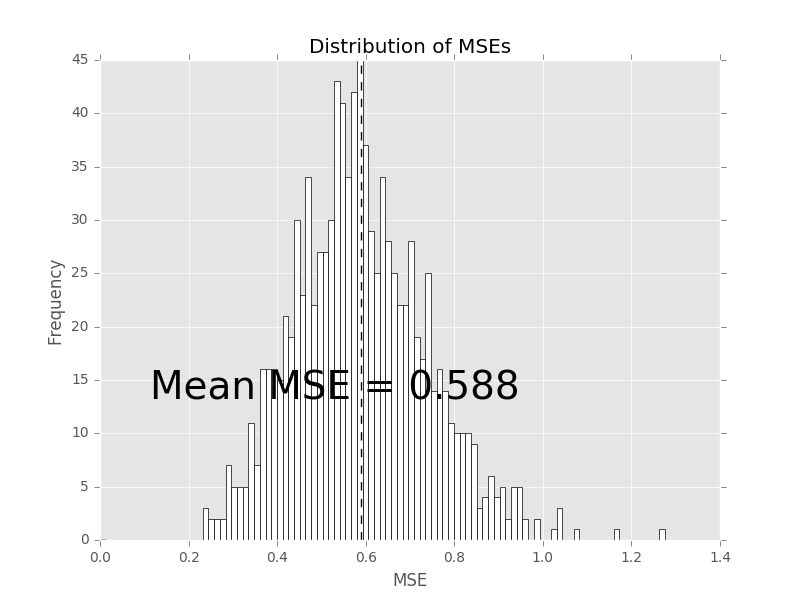
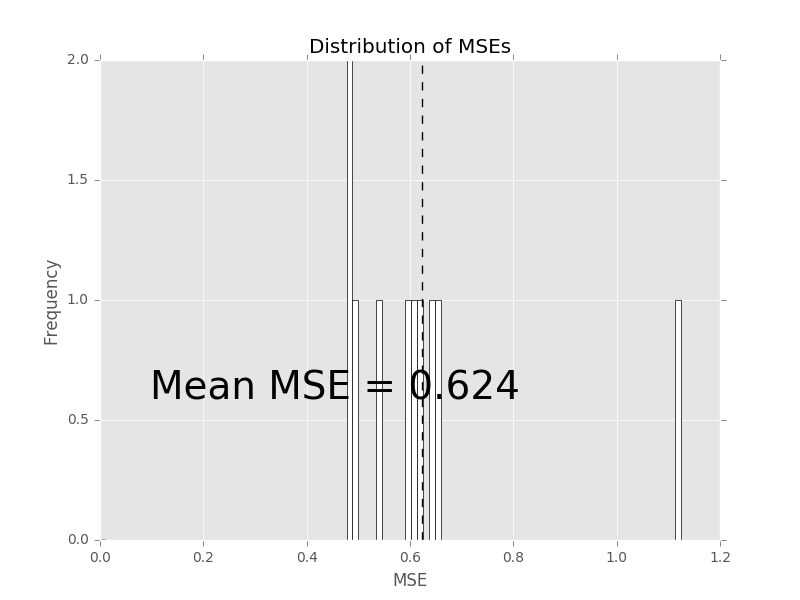
some early attempts at parallel in python

diff --git a/Python/easyml/factory.py b/Python/easyml/factory.py
@@ -20,7 +20,12 @@ def easy_glmnet(data, dependent_variable, family='gaussian', sample=None,
                 exclude_variables=None, categorical_variables=None,
                 standardize_data=True, train_size=0.667, survival_rate_cutoff=0.05,
                 n_samples=1000, n_divisions=1000, n_iterations=10,
-                out_directory='.', **kwargs):
+                out_directory='.', random_state=None, progress_bar=False,
+                parallel=False, **kwargs):
+    # Handle random state
+    if random_state is not None:
+        np.random.seed(random_state)
+
     # Handle columns
     column_names = data.columns
     column_names = [c for c in column_names if c != dependent_variable]
@@ -65,7 +70,8 @@ def easy_glmnet(data, dependent_variable, family='gaussian', sample=None,
             sample = train_test_split
 
         # Bootstrap coefficients
-        coefs = bootstrap_coefficients(model, fit, extract, X, y, n_samples=n_samples)
+        coefs = bootstrap_coefficients(model, fit, extract, X, y, n_samples=n_samples,
+                                       progress_bar=progress_bar, parallel=parallel)
 
         # Process coefficients
         betas = process_coefficients(coefs, column_names, survival_rate_cutoff=survival_rate_cutoff)
@@ -76,7 +82,8 @@ def easy_glmnet(data, dependent_variable, family='gaussian', sample=None,
 
         # Bootstrap predictions
         y_train_pred, y_test_pred = bootstrap_predictions(model, fit, predict, X_train, y_train, X_test,
-                                                          n_samples=n_samples)
+                                                          n_samples=n_samples, progress_bar=progress_bar,
+                                                          parallel=parallel)
 
         # Take average of predictions for training and test sets
         y_train_pred_mean = np.mean(y_train_pred, axis=0)
@@ -92,7 +99,8 @@ def easy_glmnet(data, dependent_variable, family='gaussian', sample=None,
 
         # Bootstrap training and test MSEs
         train_mses, test_mses = bootstrap_mses(model, sample, fit, predict, X, y,
-                                               n_divisions=n_divisions, n_iterations=n_iterations)
+                                               n_divisions=n_divisions, n_iterations=n_iterations,
+                                               progress_bar=progress_bar, parallel=parallel)
 
         # Plot histogram of training MSEs
         plot_mse_histogram(train_mses)
@@ -116,7 +124,8 @@ def easy_glmnet(data, dependent_variable, family='gaussian', sample=None,
             sample = sample_equal_proportion
 
         # Bootstrap coefficients
-        coefs = bootstrap_coefficients(model, fit, extract, X, y, n_samples=n_samples)
+        coefs = bootstrap_coefficients(model, fit, extract, X, y, n_samples=n_samples,
+                                       progress_bar=progress_bar, parallel=parallel)
 
         # Process coefficients
         betas = process_coefficients(coefs, column_names, survival_rate_cutoff=survival_rate_cutoff)
@@ -127,7 +136,8 @@ def easy_glmnet(data, dependent_variable, family='gaussian', sample=None,
 
         # Bootstrap predictions
         y_train_pred, y_test_pred = bootstrap_predictions(model, fit, predict, X_train, y_train, X_test,
-                                                          n_samples=n_samples)
+                                                          n_samples=n_samples, progress_bar=progress_bar,
+                                                          parallel=parallel)
 
         # Take average of predictions for training and test sets
         y_train_pred_mean = np.mean(y_train_pred, axis=0)
@@ -143,7 +153,8 @@ def easy_glmnet(data, dependent_variable, family='gaussian', sample=None,
 
         # Bootstrap training and test AUCSs
         train_aucs, test_aucs = bootstrap_aucs(model, sample, fit, predict, X, y,
-                                               n_divisions=n_divisions, n_iterations=n_iterations)
+                                               n_divisions=n_divisions, n_iterations=n_iterations,
+                                               progress_bar=progress_bar, parallel=parallel)
 
         # Plot histogram of training AUCs
         plot_auc_histogram(train_aucs)

diff --git a/Python/easyml/bootstrap.py b/Python/easyml/bootstrap.py
@@ -2,17 +2,30 @@
 """
 import numpy as np
 from sklearn import metrics
+from tqdm import trange
 
 
 __all__ = []
 
 
-def bootstrap_coefficients(estimator, fit, extract, X, y, n_samples=1000):
+def bootstrap_coefficients(estimator, fit, extract, X, y,
+                           n_samples=1000, progress_bar=False, parallel=False):
+    # Run in parallel (optional)
+    if parallel:
+        print("Running in parallel...")
+
+    # Initialize progress bar (optional)
+    if progress_bar:
+        print("Bootstrapping coefficients...")
+        loop = trange
+    else:
+        loop = range
+
     # Initialize containers
     coefs = []
 
     # Loop over number of iterations
-    for _ in range(n_samples):
+    for _ in loop(n_samples):
         # Fit estimator with the training set
         estimator = fit(estimator, X, y)
 
@@ -28,13 +41,25 @@ def bootstrap_coefficients(estimator, fit, extract, X, y, n_samples=1000):
     return coefs
 
 
-def bootstrap_predictions(estimator, fit, predict, X_train, y_train, X_test, n_samples=1000):
+def bootstrap_predictions(estimator, fit, predict, X_train, y_train, X_test,
+                          n_samples=1000, progress_bar=False, parallel=False):
+    # Run in parallel (optional)
+    if parallel:
+        print("Running in parallel...")
+
+    # Initialize progress bar (optional)
+    if progress_bar:
+        print("Bootstrapping predictions...")
+        loop = trange
+    else:
+        loop = range
+
     # Initialize containers
     y_train_preds = []
     y_test_preds = []
 
     # Loop over number of iterations
-    for _ in range(n_samples):
+    for _ in loop(n_samples):
         # Fit estimator with the training set
         estimator = fit(estimator, X_train, y_train)
 
@@ -54,13 +79,24 @@ def bootstrap_predictions(estimator, fit, predict, X_train, y_train, X_test, n_s
 
 
 def bootstrap_metrics(estimator, sample, fit, predict, measure, X, y,
-                      n_divisions=1000, n_iterations=100):
+                      n_divisions=1000, n_iterations=100, progress_bar=False, parallel=False):
+    # Run in parallel (optional)
+    if parallel:
+        print("Running in parallel...")
+
+    # Initialize progress bar (optional)
+    if progress_bar:
+        print("Bootstrapping metrics...")
+        loop = trange
+    else:
+        loop = range
+
     # Create temporary containers
     all_train_metrics = []
     all_test_metrics = []
 
     # Loop over number of divisions
-    for i in range(n_divisions):
+    for i in loop(n_divisions):
         # Split data
         X_train, X_test, y_train, y_test = sample(X, y)
 
@@ -97,14 +133,16 @@ def bootstrap_metrics(estimator, sample, fit, predict, measure, X, y,
 
 
 def bootstrap_aucs(estimator, sample, fit, predict, X, y,
-                   n_divisions=1000, n_iterations=100):
+                   n_divisions=1000, n_iterations=100, progress_bar=False, parallel=False):
     return bootstrap_metrics(estimator=estimator, sample=sample,
                              fit=fit, predict=predict, measure=metrics.roc_auc_score,
-                             X=X, y=y, n_divisions=n_divisions, n_iterations=n_iterations)
+                             X=X, y=y, n_divisions=n_divisions, n_iterations=n_iterations,
+                             progress_bar=progress_bar, parallel=parallel)
 
 
 def bootstrap_mses(estimator, sample, fit, predict, X, y,
-                    n_divisions=1000, n_iterations=100):
+                    n_divisions=1000, n_iterations=100, progress_bar=False, parallel=False):
     return bootstrap_metrics(estimator=estimator, sample=sample,
                              fit=fit, predict=predict, measure=metrics.mean_squared_error,
-                             X=X, y=y, n_divisions=n_divisions, n_iterations=n_iterations)
+                             X=X, y=y, n_divisions=n_divisions, n_iterations=n_iterations,
+                             progress_bar=progress_bar, parallel=parallel)

diff --git a/Python/examples/cocaine_dependence/analysis.py b/Python/examples/cocaine_dependence/analysis.py
@@ -9,15 +9,16 @@ from easyml.factory import easy_glmnet
 plt.style.use('ggplot')
 
 import os
-os.chdir('./Python/examples/prostate')
+os.chdir('./Python/examples/cocaine_dependence')
 
 
 if __name__ == "__main__":
     # Load data
-    prostate = pd.read_table('./prostate.txt')
+    cocaine_depedence = pd.read_table('./cocaine_depedence.txt')
 
     # Analyze data
-    easy_glmnet(prostate, 'lpsa',
+    easy_glmnet(cocaine_depedence, 'DIAGNOSIS',
+                family='binomial', exclude_variables=['subject'], categorical_variables=['Male'],
                 random_state=1, progress_bar=True, parallel=True,
-                n_samples=10, n_divisions=10, n_iterations=5,
+                n_samples=10, n_divisions=10, n_iterations=2,
                 alpha=1, n_lambda=200, standardize=False, cut_point=0, max_iter=1e6)

diff --git a/Python/scratch.py b/Python/scratch.py
@@ -1,0 +1,16 @@
+from concurrent.futures import ThreadPoolExecutor
+from time import sleep
+
+
+def return_after_5_secs(message):
+    sleep(5)
+    return message
+
+
+pool = ThreadPoolExecutor(3)
+
+future = pool.submit(return_after_5_secs, ("hello"))
+print(future.done())
+sleep(5)
+print(future.done())
+print(future.result())
